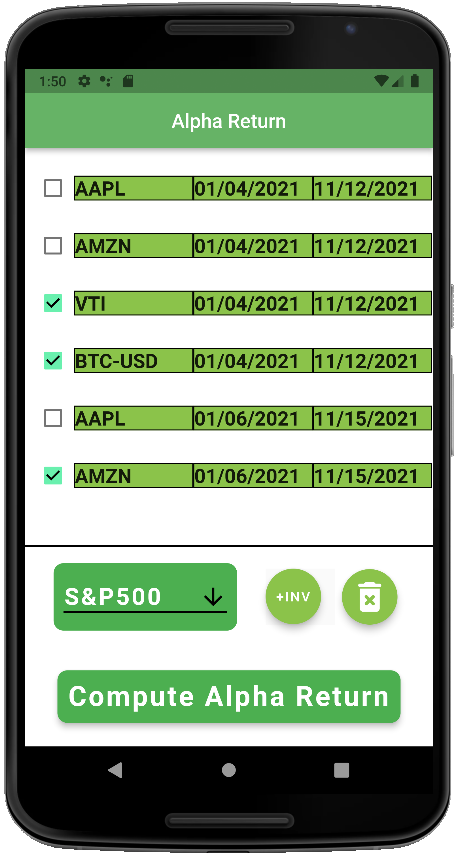
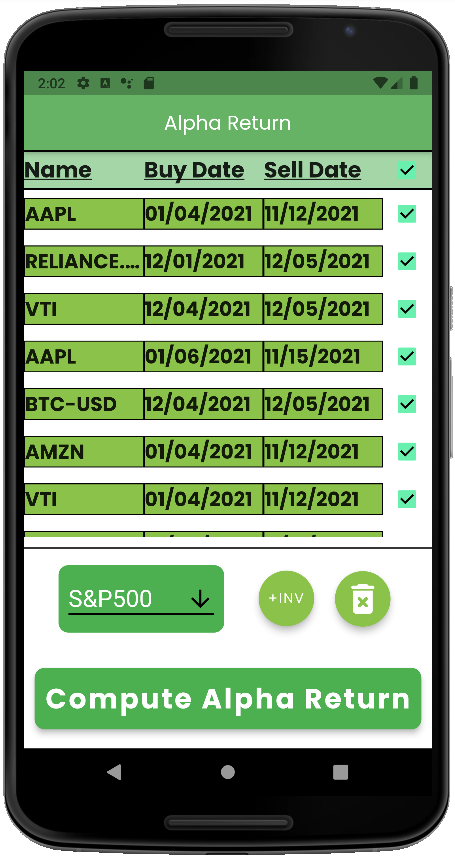
Updated demo images for github

diff --git a/README.md b/README.md
@@ -12,4 +12,6 @@ Here is the current proof of concept for mobile and web being done with Flutter 
 
 ![alt_text](https://github.com/andrew-d-gordon/alpha-return/blob/master/docs/images/nexus_demo_beta_add_investment_2.png?raw=true)
 
+![alt_text](https://github.com/andrew-d-gordon/alpha-return/blob/master/docs/images/dark_theme_beta.png?raw=true)
+
 Refer to [license.md](https://github.com/andrew-d-gordon/alpha-return/blob/master/license.md) for what extent of personal use is allowed (non-commercial).
